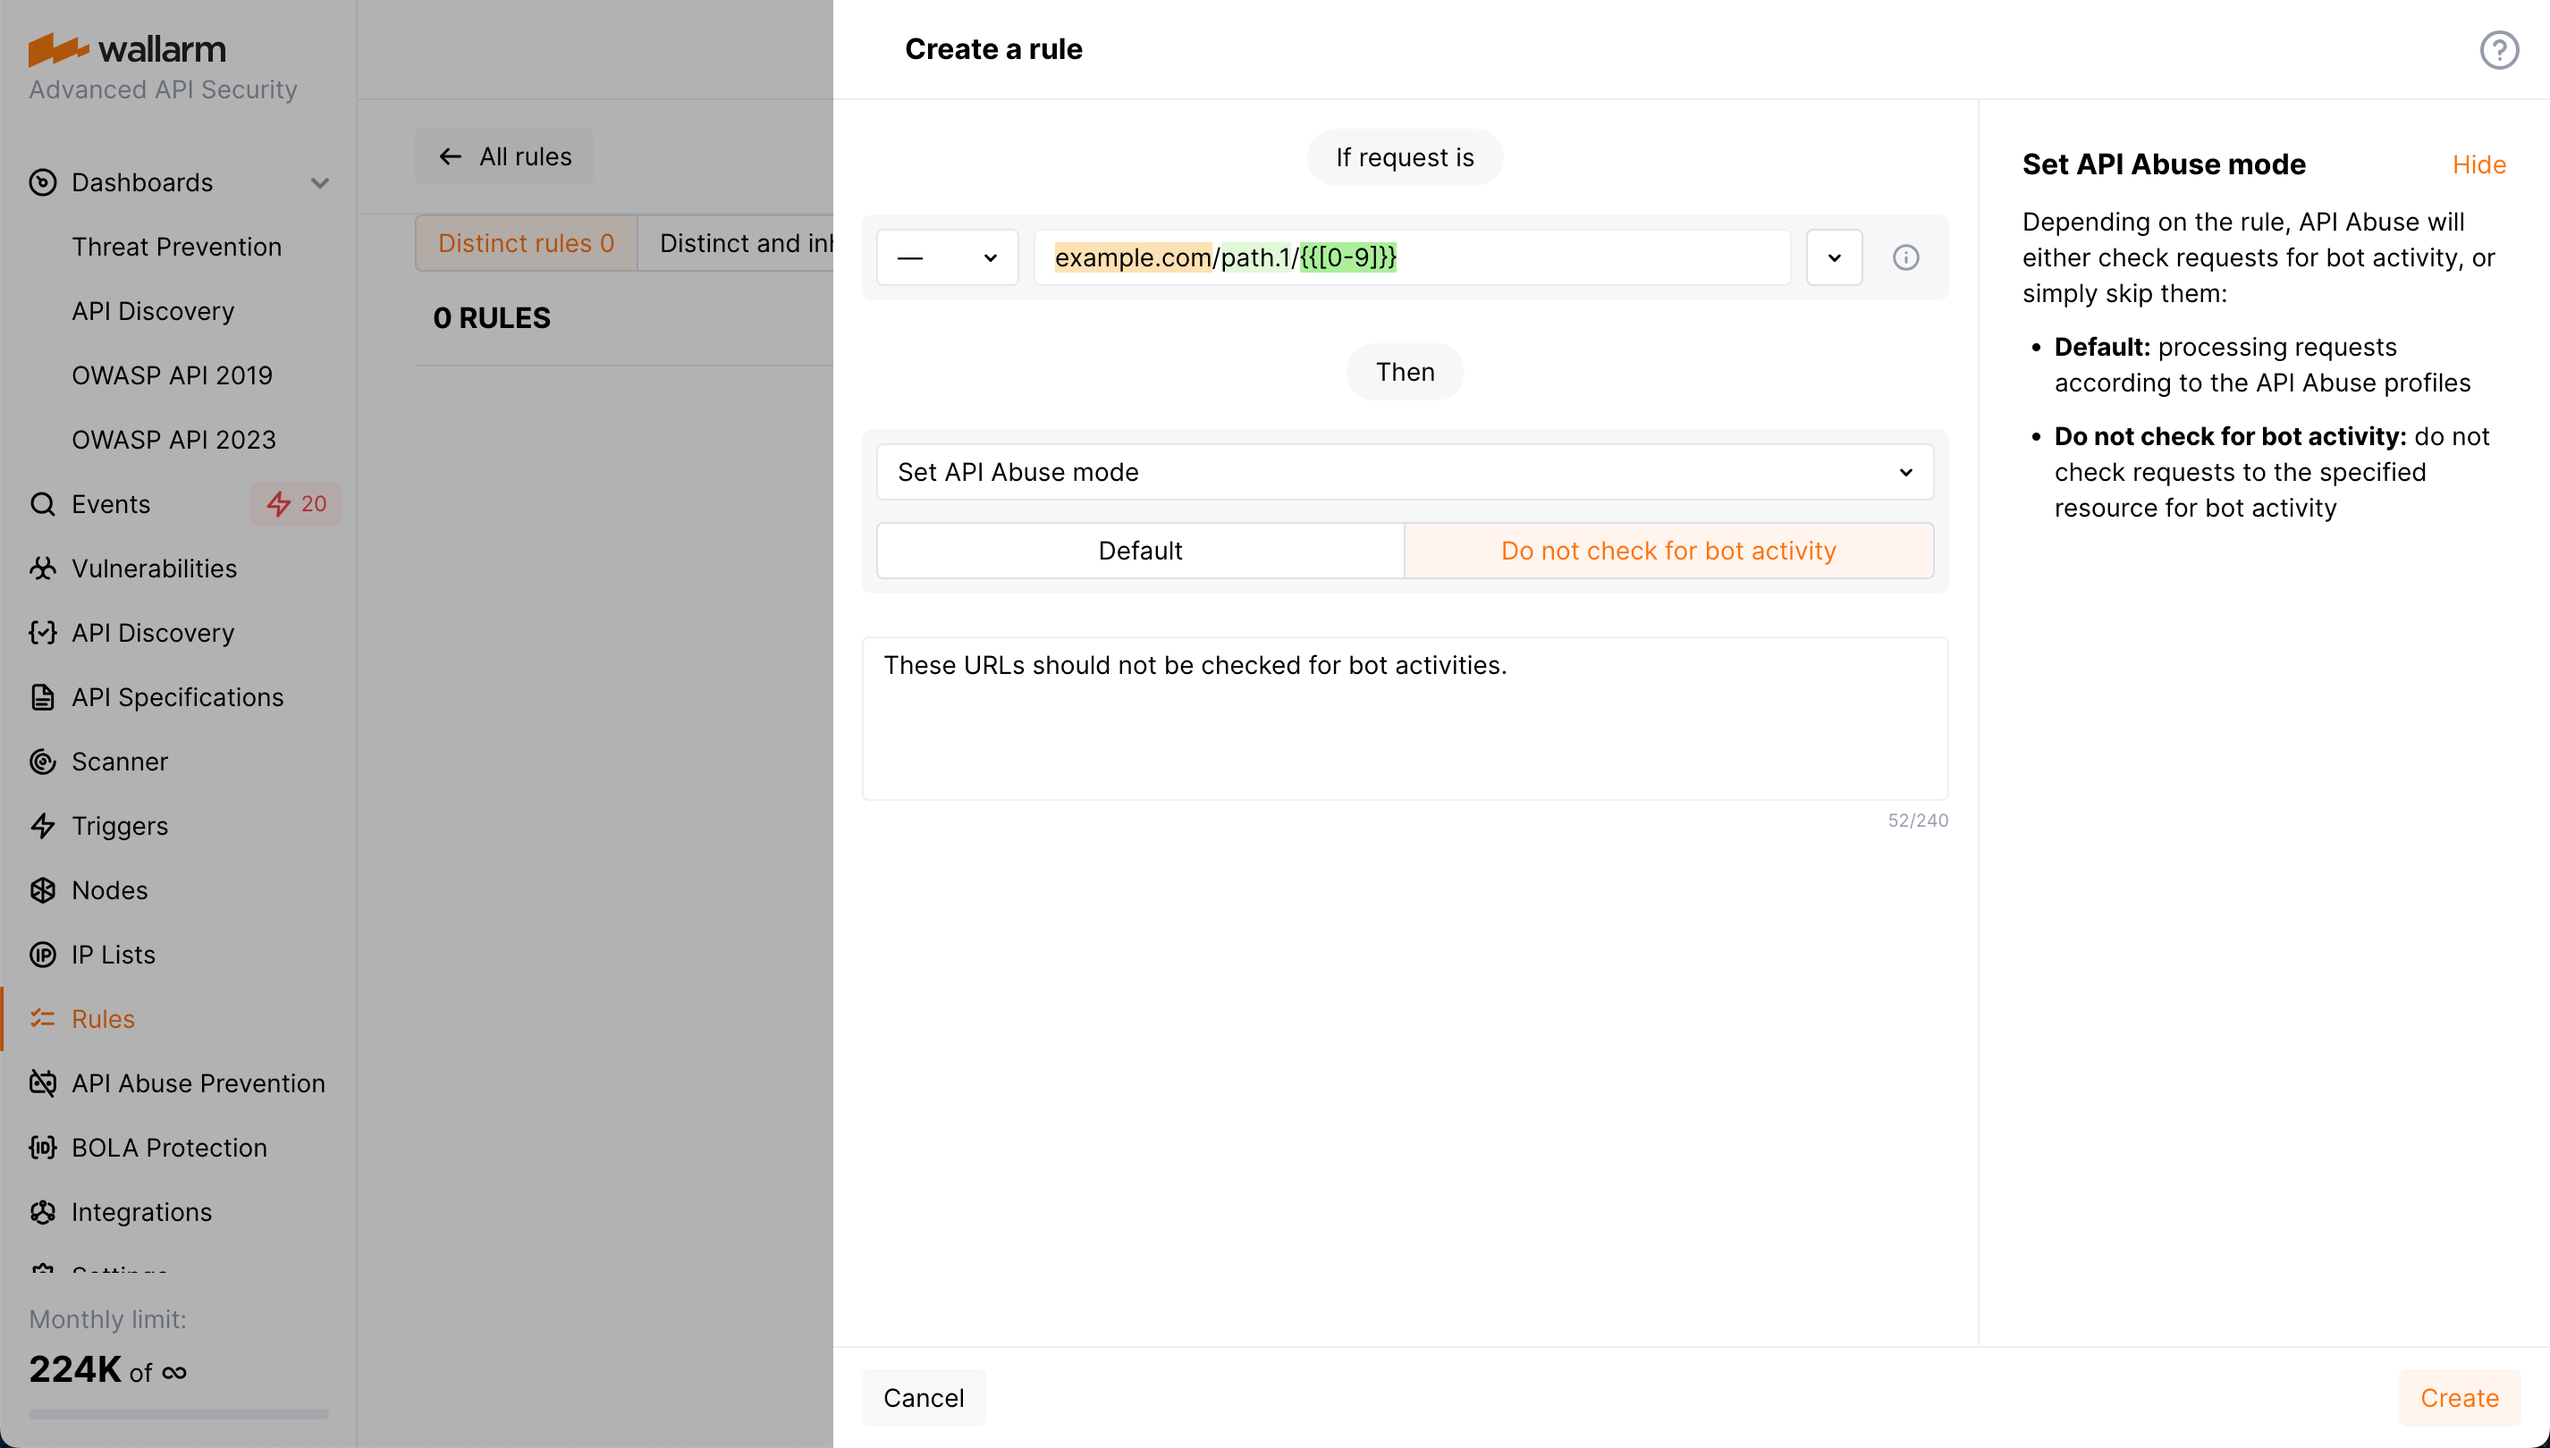
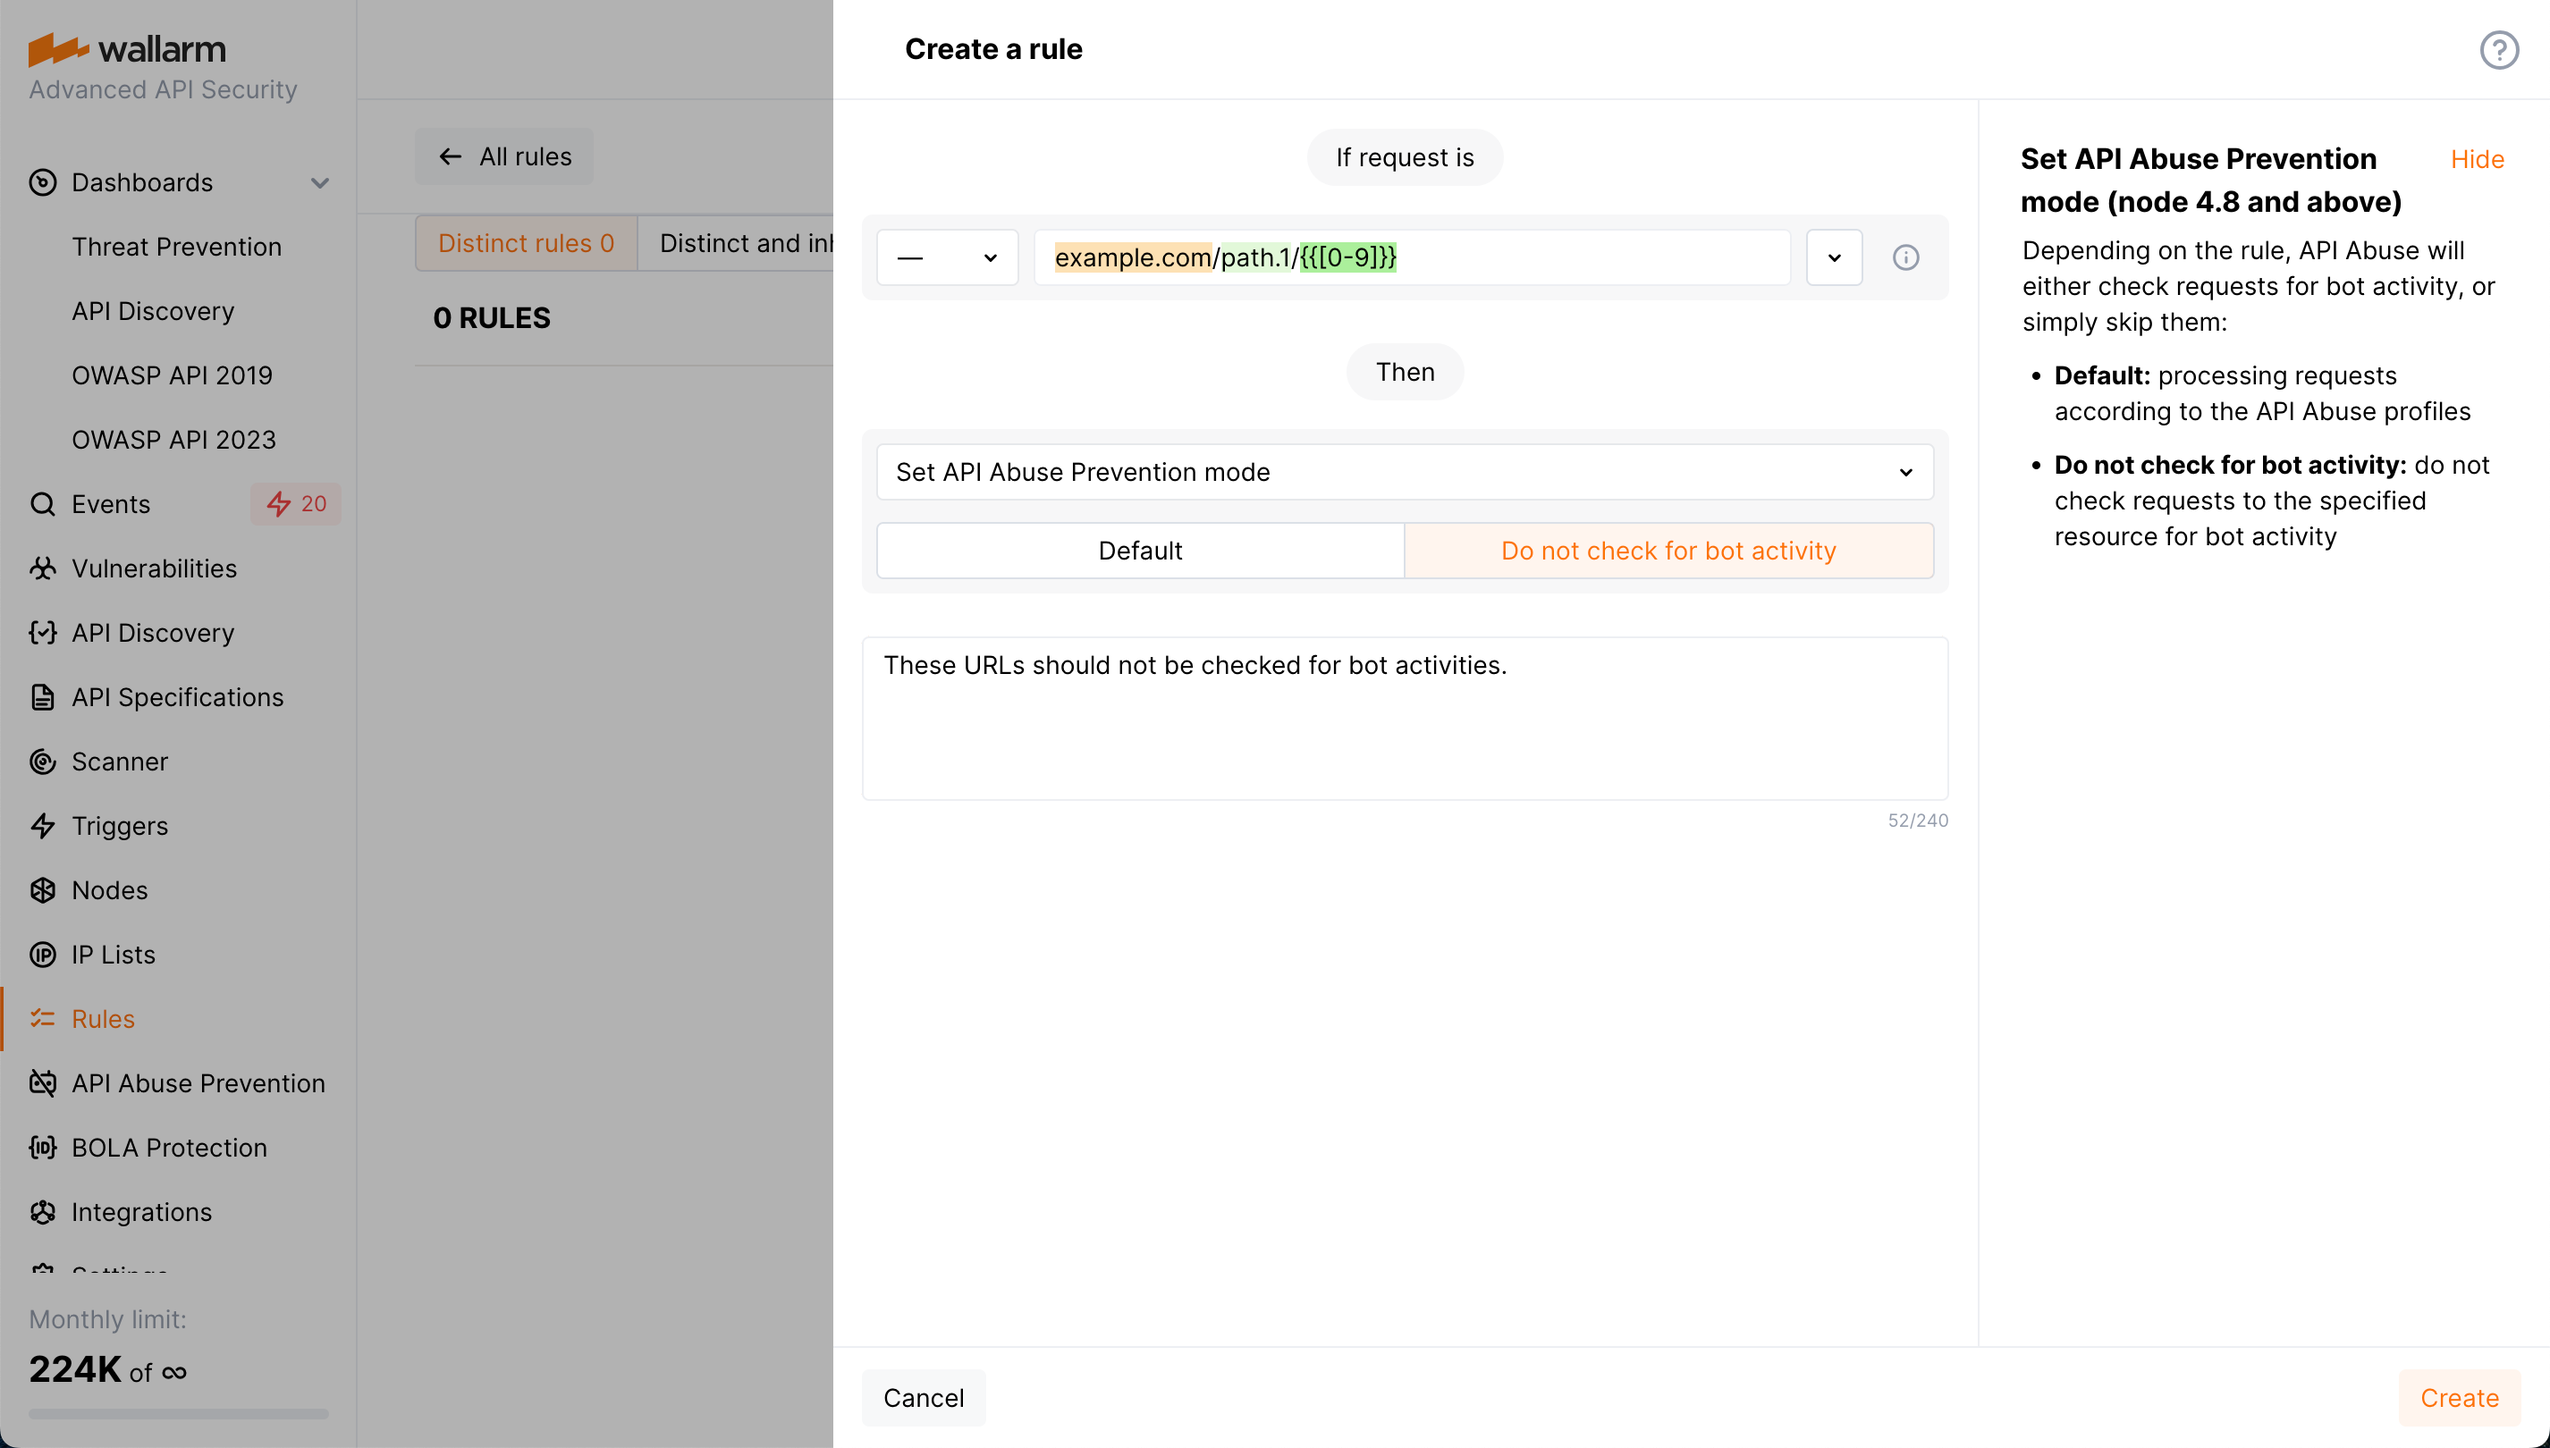
DOCS-2183 Rule correct name and support in 4.8

Changed region(s): [[0.7802, 0.0926, 0.9674, 0.3704], [0.3433, 0.3086, 0.4993, 0.3395], [0.9674, 0.0926, 0.9986, 0.1235]]

diff --git a/docs/latest/user-guides/rules/api-abuse-url.md b/docs/latest/user-guides/rules/api-abuse-url.md
@@ -1,8 +1,11 @@
 # Disabling bot protection for specific URLs
 
-The [**API Abuse Prevention**](../../about-wallarm/api-abuse-prevention.md) module of the Wallarm platform detects and mitigates malicious bots. What applications are being protected, from which bot types, and with what level of tolerance is configured by one or more [API abuse profiles](../../user-guides/api-abuse-prevention.md). Additionally, you can disable bot protection for specific URLs using the **Set API Abuse mode** rule described in this article.
+The [**API Abuse Prevention**](../../about-wallarm/api-abuse-prevention.md) module of the Wallarm platform detects and mitigates malicious bots. What applications are being protected, from which bot types, and with what level of tolerance is configured by one or more [API abuse profiles](../../user-guides/api-abuse-prevention.md). Additionally, you can disable bot protection for specific URLs using the **Set API Abuse Prevention mode** rule described in this article.
 
-Note that this rule is different from the [exception list](../../about-wallarm/api-abuse-prevention.md#exception-list) of API Abuse Prevention: the exception lists sets **source** URLs, and the **Set API Abuse mode** rule - **target** URLs not to be checked.
+!!! info "Rule support in different node versions"
+    This feature is only supported by nodes version 4.8 and above.
+
+Note that this rule is different from the [exception list](../../about-wallarm/api-abuse-prevention.md#exception-list) of API Abuse Prevention: the exception lists sets **source** URLs, and the **Set API Abuse Prevention mode** rule - **target** URLs not to be checked.
 
 ## Creating and applying the rule
 
@@ -13,7 +16,7 @@ To disable bot protection for specific URL:
 
     If you use the [**API Discovery**](../../about-wallarm/api-discovery.md) module and have your endpoints discovered, you can also quickly create the rule for the endpoint using its menu.
 
-1. In **Then**, choose **Set API Abuse mode** and set:
+1. In **Then**, choose **Set API Abuse Prevention mode** and set:
 
     * **Default** - for the described scope (specific URL or more), the protection from bots will work in a usual way defined by common API Abuse Prevention [profiles](../../user-guides/api-abuse-prevention.md).
     * **Do not check for bot activity** - for the described scope, the check for bot activity will not be performed.
@@ -26,16 +29,16 @@ To disable bot protection for specific URL:
 
 Let's say you have your API inventory discovered the [**API Discovery**](../../about-wallarm/api-discovery.md) module and you have the endpoint that belongs to your application. The application should be protected from bot activities but the testing endpoint should be an exception.
 
-General protection is configured by API Abuse profile, exception for the endpoint is set via the **Set API Abuse mode** rule set to **Do not check for bot activity**.
+General protection is configured by API Abuse profile, exception for the endpoint is set via the **Set API Abuse Prevention mode** rule set to **Do not check for bot activity**.
 
 In this case it is easier to create rule from the **API Discovery** list of endpoints. Go there, find your endpoint and initiate rule creation from its page:
 
-![!Creating Set API Abuse mode for API Discovery endpoint](../../images/user-guides/rules/api-abuse-url.png)
+![!Creating Set API Abuse Prevention mode for API Discovery endpoint](../../images/user-guides/rules/api-abuse-url.png)
 
 Note that you can temporarily disable the exception for the endpoint without deleting the rule by selecting the **Default** mode. You can go back to **Do not check for bot activity** at any moment later.
 
 ### Set of URLs should not be checked for bot activities
 
-Let's say you need to stop checking bot activities for the set of URLs defined with the help of [regular expression](add-rule.md#condition-type-regex). Go to the **Rules** section and create the **Set API Abuse mode** rule:
+Let's say you need to stop checking bot activities for the set of URLs defined with the help of [regular expression](add-rule.md#condition-type-regex). Go to the **Rules** section and create the **Set API Abuse Prevention mode** rule:
 
-![!Creating Set API Abuse mode for set of URLs with regular expression](../../images/user-guides/rules/api-abuse-url-regex.png)
+![!Creating Set API Abuse Prevention mode for set of URLs with regular expression](../../images/user-guides/rules/api-abuse-url-regex.png)

diff --git a/docs/latest/user-guides/api-abuse-prevention.md b/docs/latest/user-guides/api-abuse-prevention.md
@@ -105,6 +105,6 @@ The **Exception list** tab provides the historical data - you can view items tha
 
 ## Working with exceptions for target URLs
 
-Besides stopping bot protection based on **source** URLs with [exception list](#working-with-exception-list), you can disable it for specific **target** URLs using the [**Set API Abuse mode**](../user-guides/rules/api-abuse-url.md) rule.
+Besides stopping bot protection based on **source** URLs with [exception list](#working-with-exception-list), you can disable it for specific **target** URLs using the [**Set API Abuse Prevention mode**](../user-guides/rules/api-abuse-url.md) rule.
 
 Unlike other API Abuse Prevention configuration, this ability is an additional one, thus it is configured not within the API Abuse profile, but separately - with the help of the rule.

diff --git a/docs/latest/about-wallarm/api-abuse-prevention.md b/docs/latest/about-wallarm/api-abuse-prevention.md
@@ -97,7 +97,7 @@ You can add IP addresses to the exception list in advance or if they have alread
 
 ## Disabling bot protection for specific URLs
 
-Besides stopping bot protection based on **source** URLs with [exception list](#exception-list), you can disable it for specific **target** URLs using the [**Set API Abuse mode**](../user-guides/rules/api-abuse-url.md) rule.
+Besides stopping bot protection based on **source** URLs with [exception list](#exception-list), you can disable it for specific **target** URLs using the [**Set API Abuse Prevention mode**](../user-guides/rules/api-abuse-url.md) rule.
 
 This can help to avoid false positive detections and may be also helpful in case of testing your applications when you may need to temporarily disable bot protection for some of their endpoints.
 

diff --git a/docs/latest/user-guides/rules/add-rule.md b/docs/latest/user-guides/rules/add-rule.md
@@ -340,4 +340,4 @@ The following rules are supported:
 * [Ignore certain attack types](ignore-attack-types.md)
 * [Ignoring certain attack signs in the binary data](ignore-attacks-in-binary-data.md)
 * [Fine-tune the overlimit_res attack detection](configure-overlimit-res-detection.md)
-* [Set API Abuse mode for specific target URLs](api-abuse-url.md)
+* [Set API Abuse Prevention mode for specific target URLs](api-abuse-url.md)
